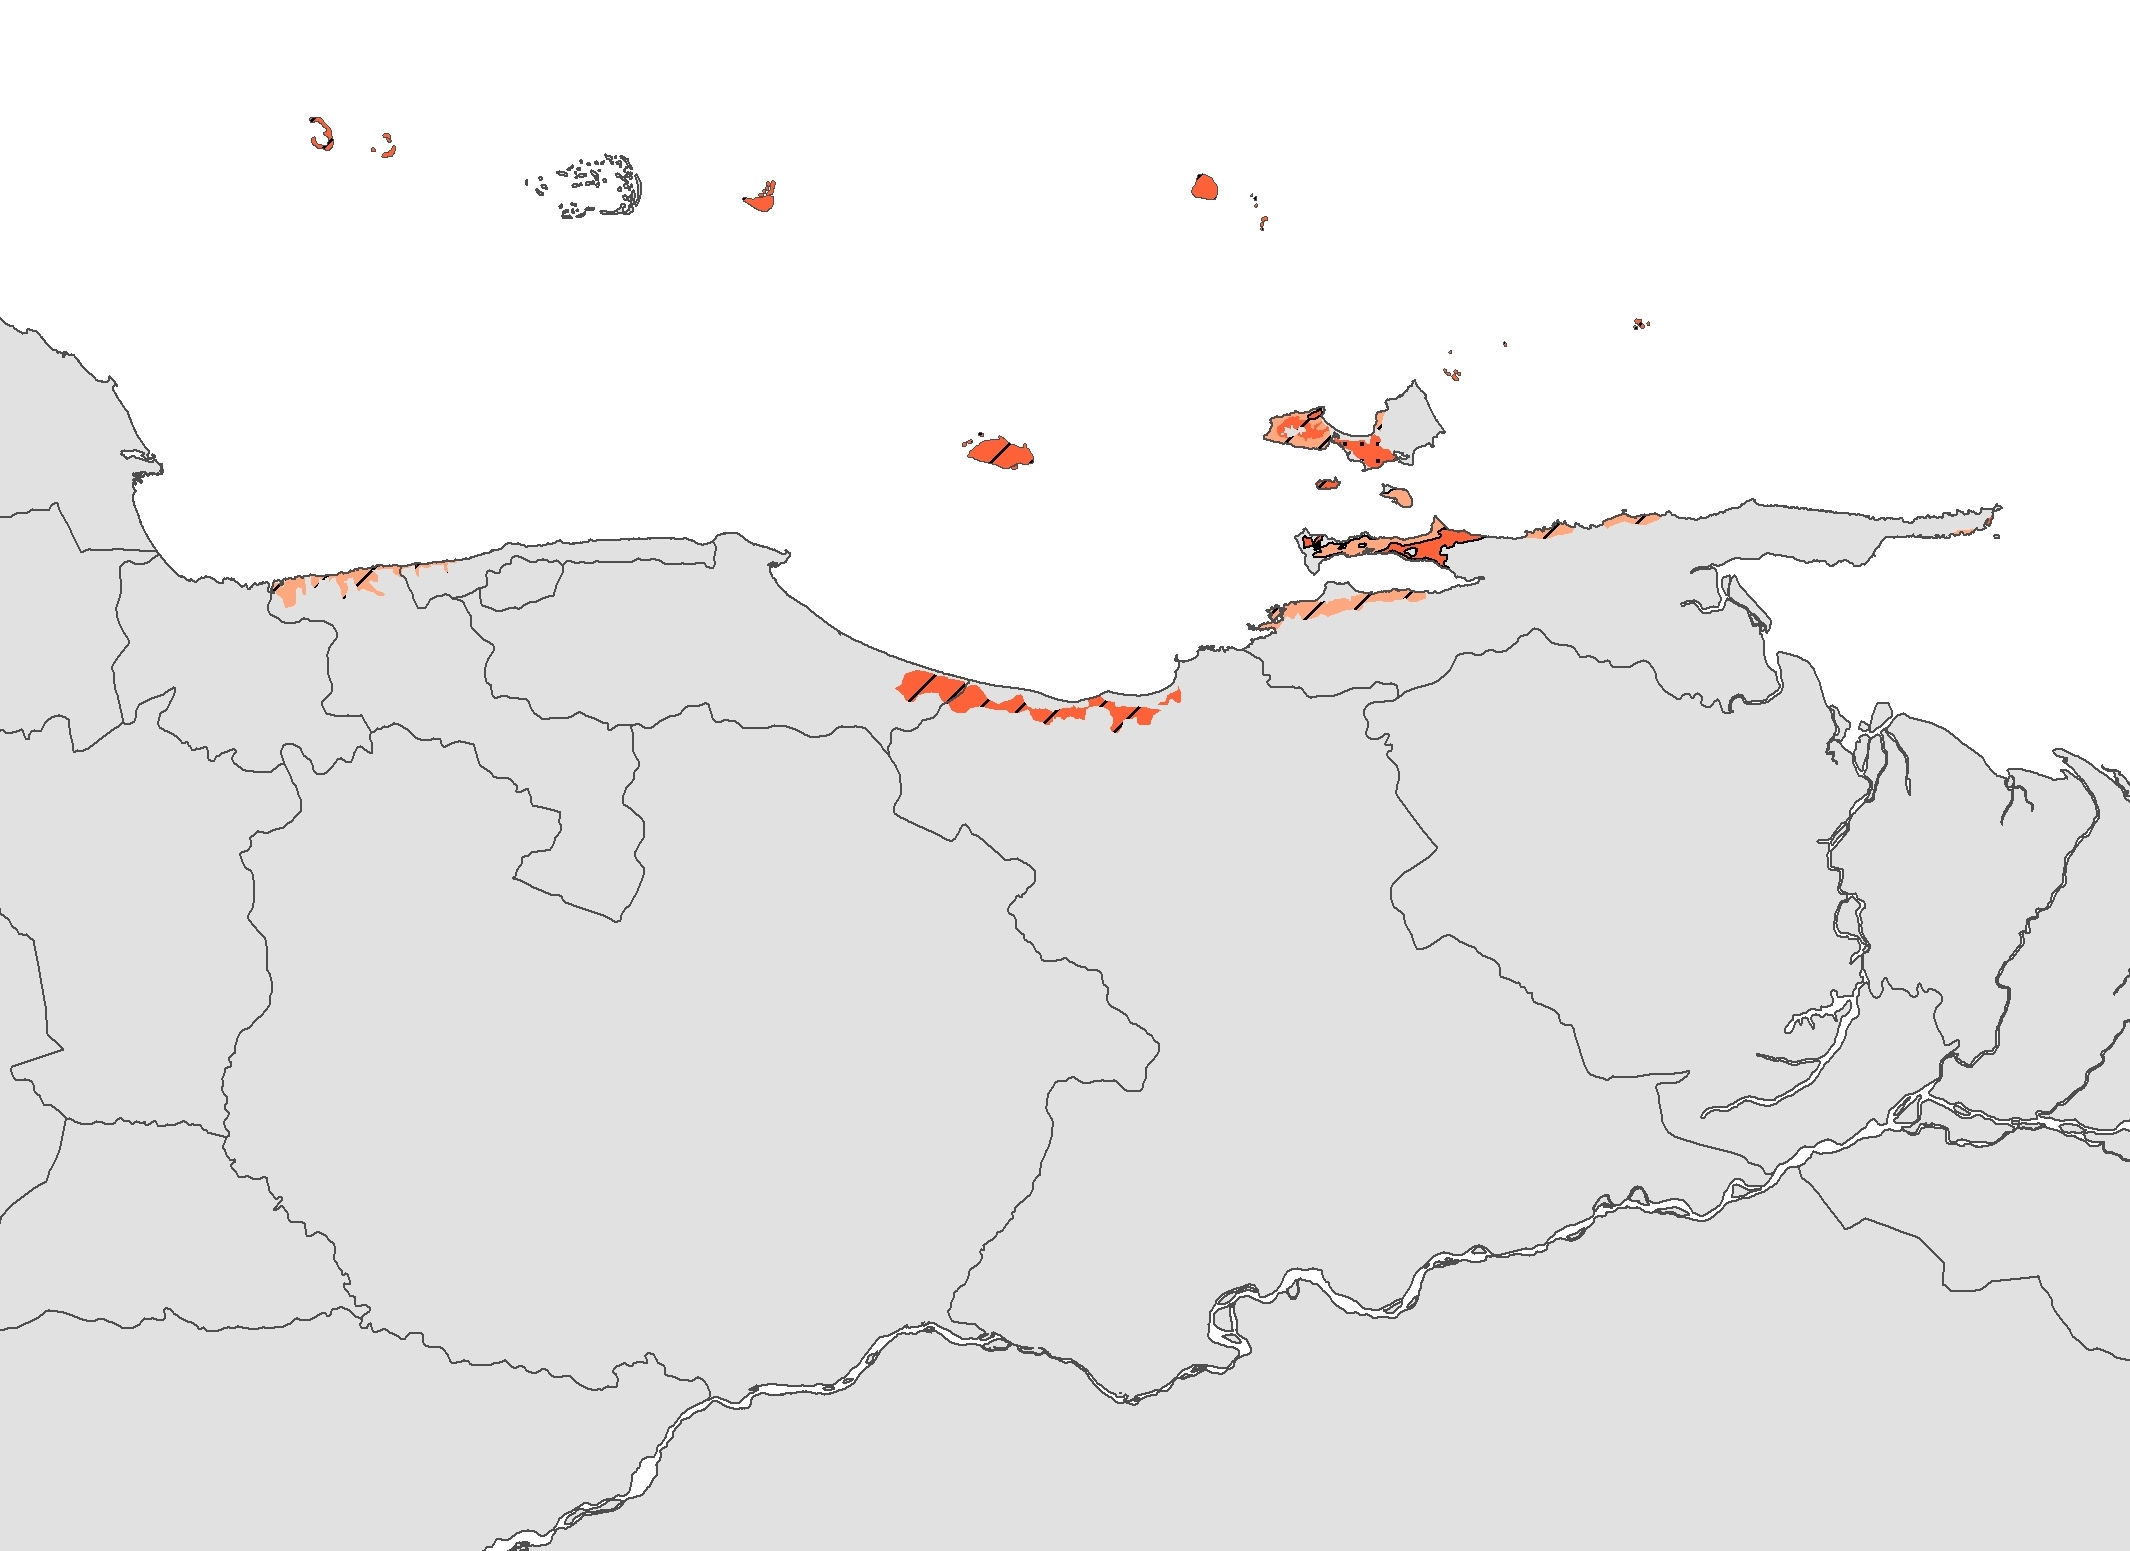
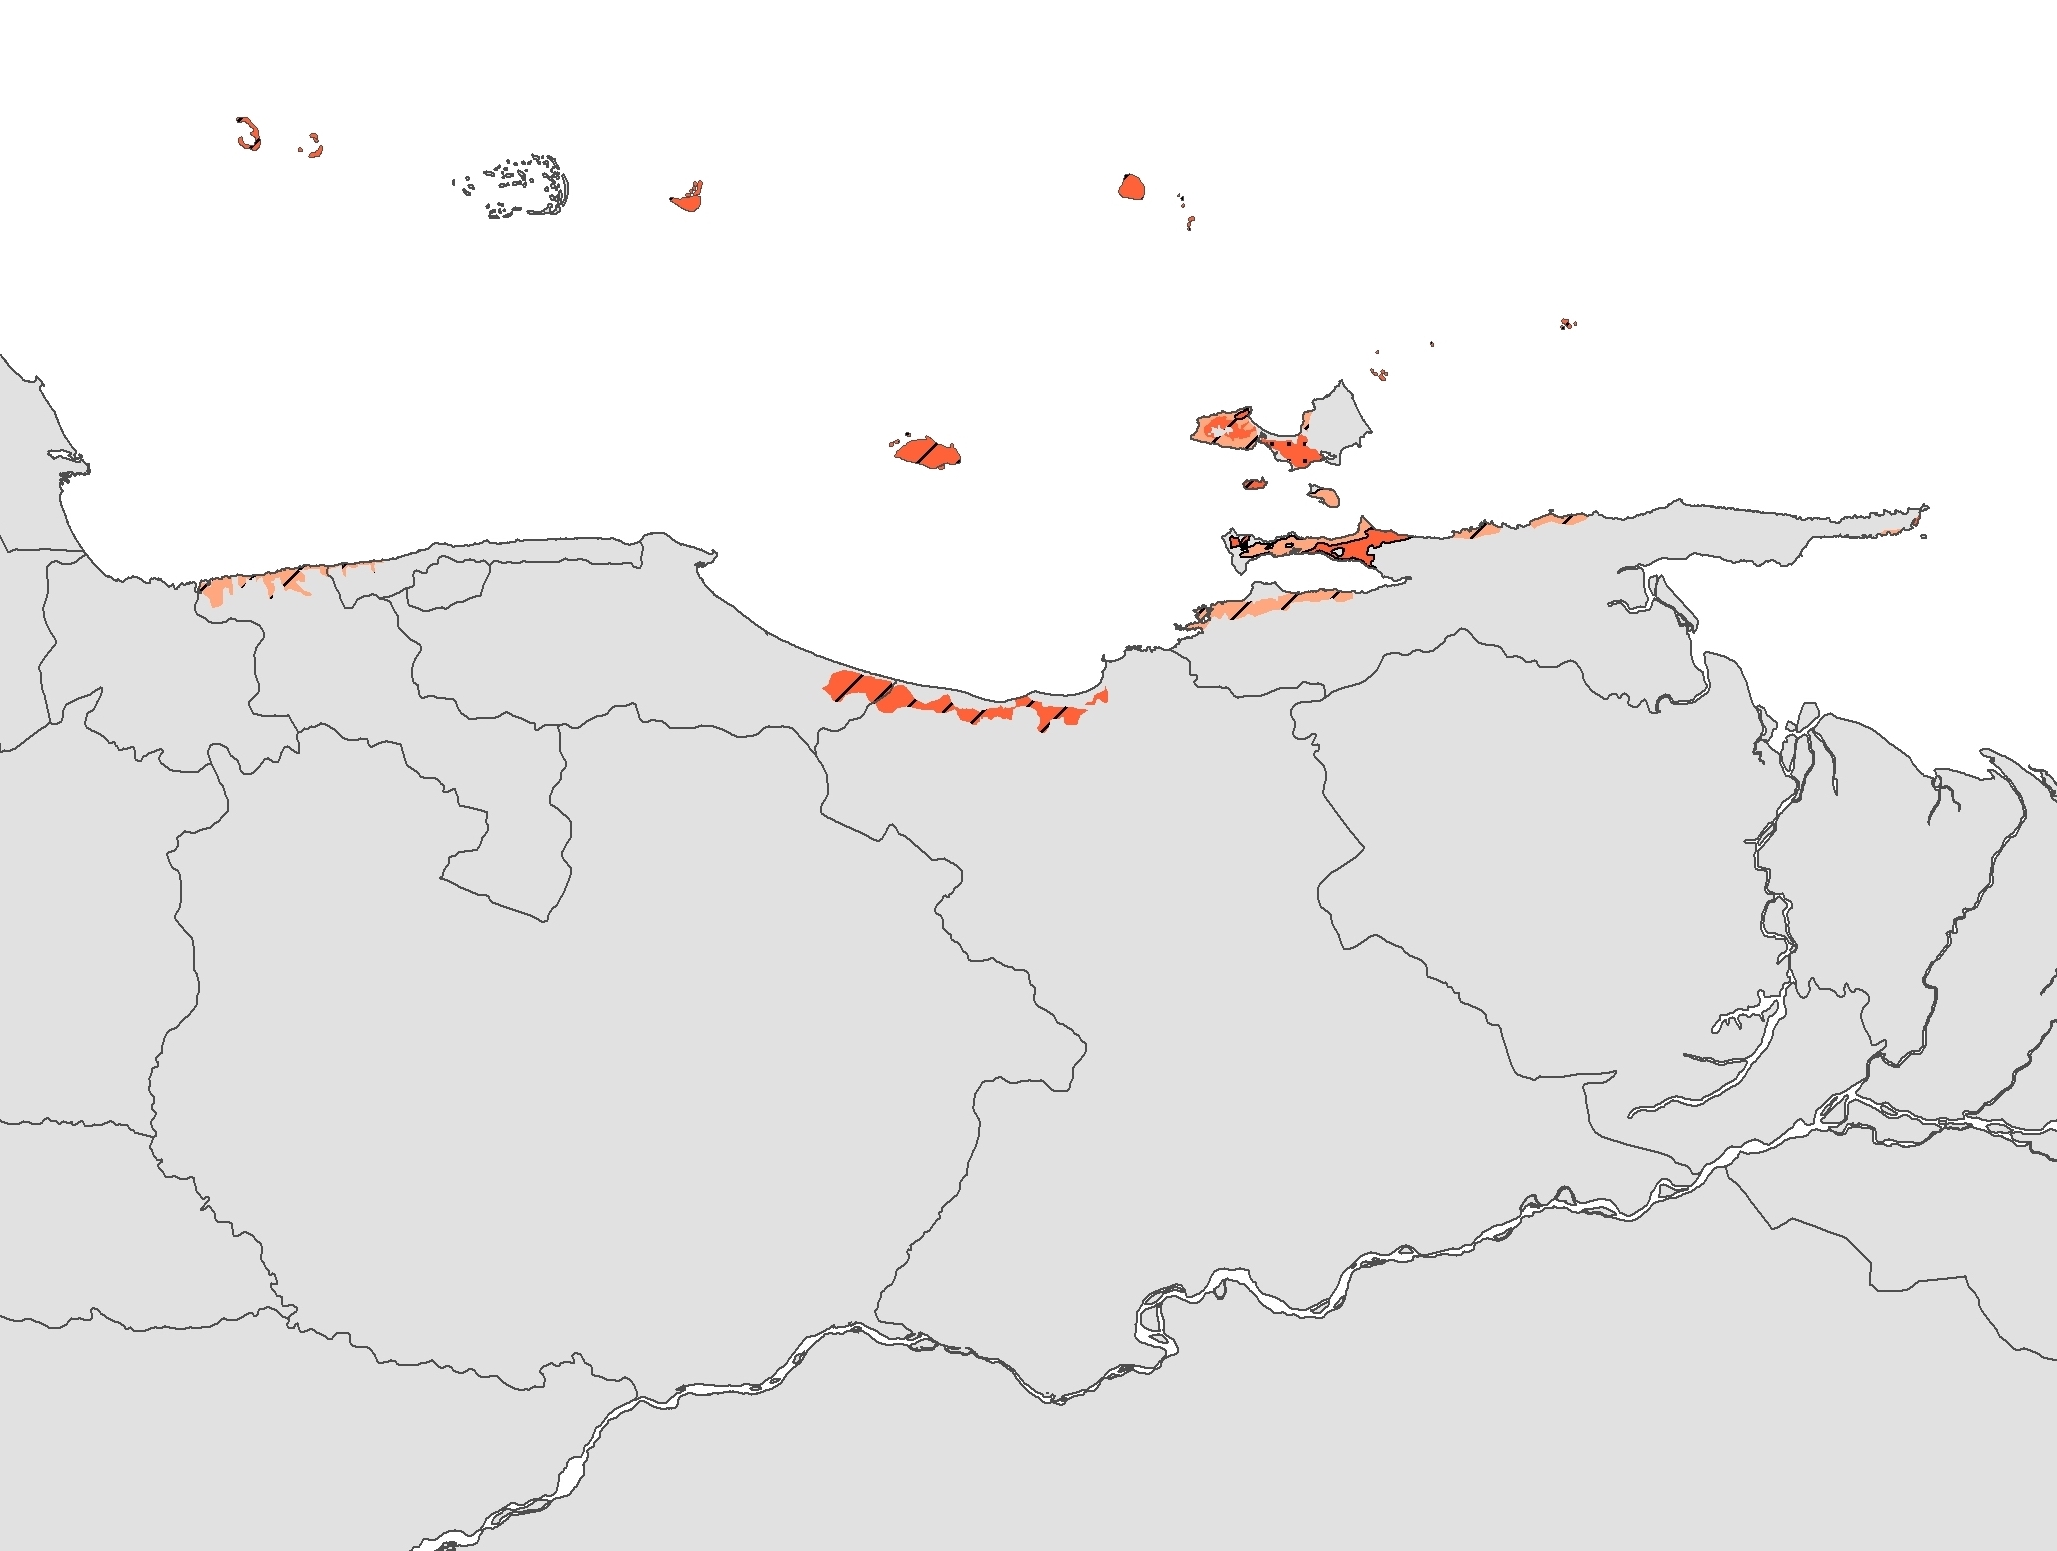
Arbustales espinosos

diff --git a/content/vcards/arbustales-espinosos/content.md b/content/vcards/arbustales-espinosos/content.md
@@ -16,6 +16,23 @@ mapcompare:
   - in2010: "./figura-1a-1-88.jpg"
     in1988: "./figura-1b-1-2010.jpg"
     caption: "Occidente"
+    interventionlegend:
+    - image: "./muy-intervenido.png"
+      text: "Muy intervenido"
+    - image: "./medio-alto.png"
+      text: "Medio alto"
+    - image: "./bajo.png"
+      text: "Bajo o información no disponible"
+  - in2010: "./figura-1a-2-88.jpg"
+    in1988: "./figura-1b-2-2010.jpg"
+    caption: "Centro-este"
+    interventionlegend:
+    - image: "./muy-intervenido.png"
+      text: "Muy intervenido"
+    - image: "./medio-alto.png"
+      text: "Medio alto"
+    - image: "./bajo.png"
+      text: "Bajo o información no disponible"
 formationColumn: false
 stateleveltable:
   - state: "Anzoátegui"
@@ -60,6 +77,13 @@ stateleveltable:
   - state: "Zulia"
     areain1988: "3352"
     areain2010: "1558"
+threatlevelmaps:
+  - map: "./figura-1c-1.jpg"
+    caption: "Occidente"
+    threatcategories: ["cr", "en"]
+  - map: "./figura-1c-2.jpg"
+    caption: "Centro-este"
+    threatcategories: ["cr", "en", "vu"]
 zonelabel: "Estado"
 criteriaused: [A3, A4, C2, "Situación por estado"]
 riskofcolapsestatelevel:
